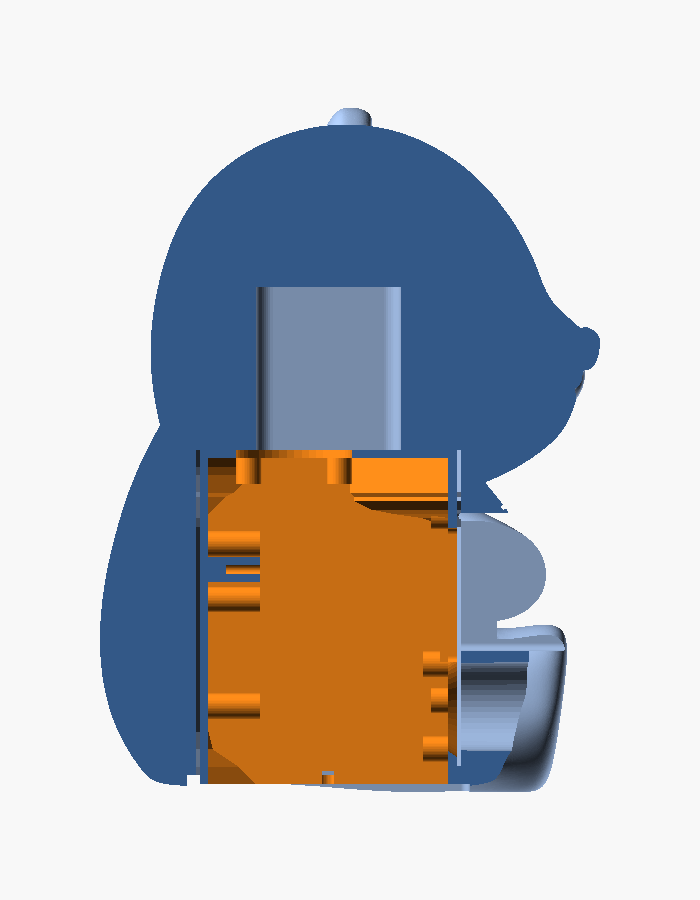
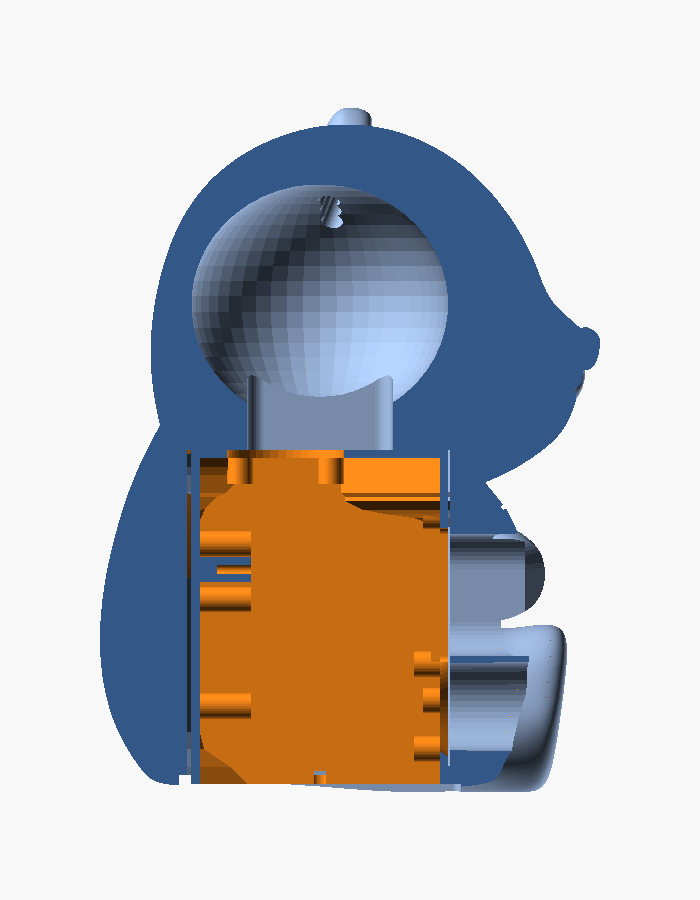
Move the ear grille onto the inner-ear dish; fix + bevel the OLED window
The ear vents were 2x3 bores drilled into each ear's outer-lower CORNER, which
read as damage rather than a grille. Located the sculpted inner-ear dish properly
instead: a density + surface scan of the 500k mesh (run per ear, since the stipple
is randomised per side, then the two masks intersected so one layout is valid on
both) puts it at a tilted oval, centre (X 40.1, Z 146.7), major axis -46.2 deg in
XZ, ~20 x 13.8mm, recessed ~1.3mm behind the ear rim. Watch out when probing it:
the stipple patch is a SEPARATE overlapping shell, so it emits rear-facing
triangles at Y~21 and the ear's real back skin is only the geometry below Y15.

The grille is now a real one: 13 bores (hex 4/5/4, d2.4 @ 3.8 pitch, the grid
rotated onto the dish's major axis) feeding a shared plenum just under the skin,
with three ducts tunnelling inboard and down into the head void. Open areas are
matched - 58.8mm^2 of holes vs a ~54.6mm^2 duct throat, against 24mm^2 of blind
bores before. Verified: >=1.75mm of skin in front of the plenum, >=1.99mm to the
ear's back skin, >=1.5mm of wall along every duct, all three ducts terminating
inside the head cavity, and a vents-minus-skin render containing nothing but the
13 bore stubs per ear (no breach anywhere along the ducts).

Fix the OLED window's Z placement: dev_oled_pz IS the lit-area centre, but
panda.scad added oled_active_dy (3.1mm) to it a second time - that offset only
[…]

diff --git a/docs/ASSEMBLY.md b/docs/ASSEMBLY.md
@@ -235,24 +235,33 @@ a part designed to come apart repeatedly.
 ## 7. Speaker and the head
 
 ```
+     ear grille   ear grille
+         ░░           ░░       <- 13 holes each, in the stippled inner-ear dish
+          \           /
         ┌──────────────┐
-        │     head     │   <- front chamber; grille on the face
+        │     head     │   <- front chamber (ellipsoid void, hollow)
         │   (hollow)   │
         └──────┬───────┘
-          ═════╪═════       <- gasket, airtight
+          ═════╪═════       <- neck chimney (48 x 34), airtight
         ┌──────┴───────┐
-        │  speaker in  │
-        │  sled roof   │   <- sled interior = sealed rear volume
+        │  speaker on  │
+        │   cage top   │   <- cage interior = sealed rear volume
         └──────────────┘
 ```
 
-- Speaker mounts to the **underside** of the sled roof, firing up, held by four
-  M3 screws or a printed retaining ring.
-- The `spk_grille_d` (34 mm) opening in the roof, with the gasket compressed
-  between flange and roof.
-- The grille itself goes on the **head's face**, so sound comes toward the
-  listener. `helpers.scad` already has a `speaker_grille()` module (hex hole
-  pattern) - it just needs calling from the concept.
+- Speaker mounts to the **top** of the cage, firing up, held by four M3 screws or
+  a printed retaining ring.
+- The stadium opening (`spk_grille_l` x `spk_grille_w`) in the cage top, with the
+  gasket compressed between flange and roof.
+- Sound then runs **cage top -> neck chimney -> hollow head -> ears**. The grille
+  is *not* on the face: it is cut into the sculpted **stippled inner dish of each
+  ear** (13 holes, 2.4 mm, hex 4/5/4, on the dish's own major axis), fed by a
+  shallow plenum under the skin and three ducts into the head void. See
+  `panda_head_vents()` / `ear_vent()` in `panda.scad` and
+  `previews/panda_ear_grille.png`. Open areas are matched (grille 58.8 mm^2 per
+  ear vs ~54.6 mm^2 of duct throat).
+- `helpers.scad`'s generic `speaker_grille()` is unused - the ear grille is
+  solved against the sculpt's own geometry instead.
 - Keep the head cavity as sealed as practical. Every unintended gap is bass
   leaking out.
 - Do not let the speaker's magnet sit against the DS3231 or the OLED ribbon.
@@ -333,8 +342,8 @@ printable, the chosen concept needs:
 - [ ] The body cavity that receives it, with matching rails and washer recesses
 - [ ] Joystick panel hole, **flared** to `joy_throw_a` so the stick can tilt
 - [ ] OLED window and mounting bosses (`oled_hole_dx`/`dy` exist already)
-- [ ] Speaker opening in the sled roof + grille on the head face - `helpers.scad`
-      already has `speaker_grille()`, currently never called
+- [ ] Speaker opening in the cage top (done) + the ear grilles (done: see
+      `ear_vent()` in `panda.scad`); `helpers.scad`'s `speaker_grille()` is unused
 - [ ] Screw bosses - `helpers.scad` has `screw_boss()`, also never called
 - [ ] USB slot and amp vents
 - [ ] Print-splitting and orientation
